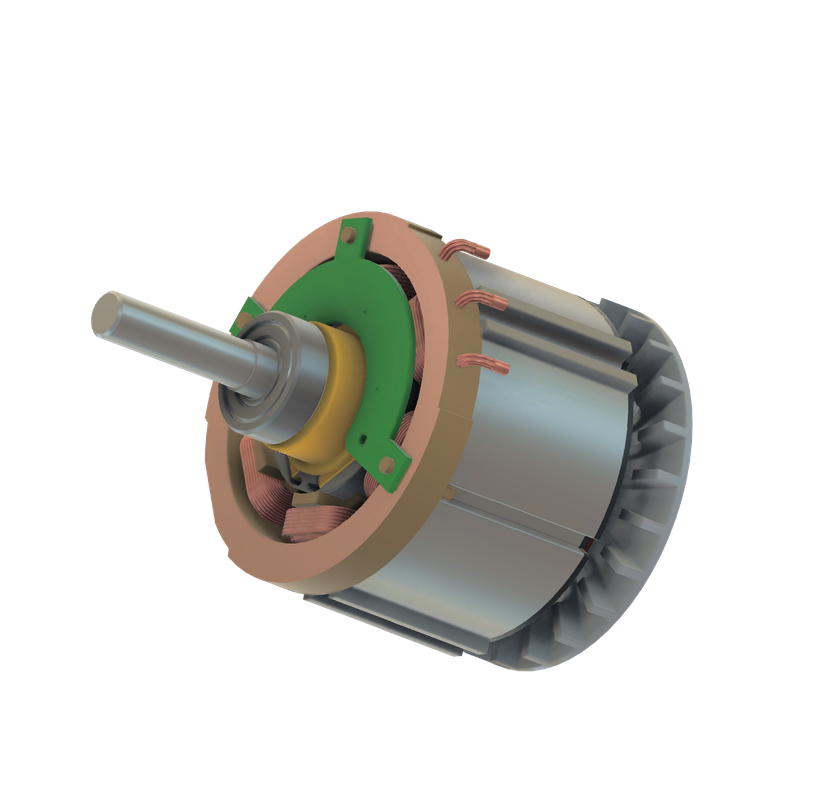
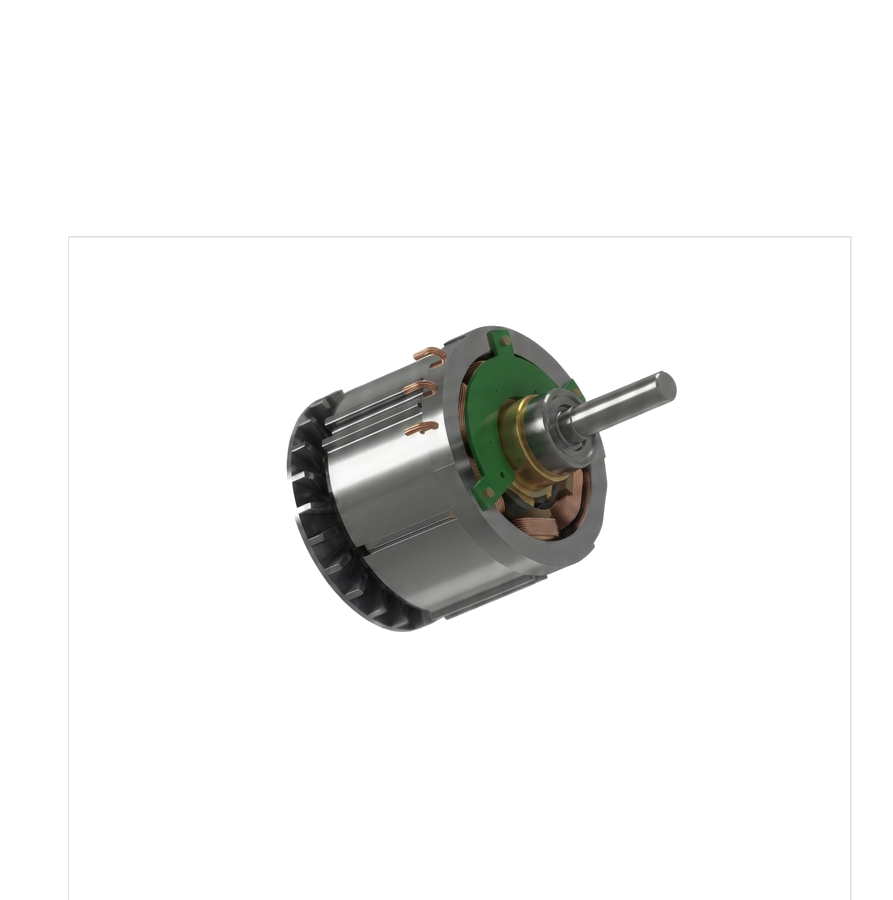
products: desktop render-audit fixes (god t117-audit) — 11 defects
- RF22/86 + RF55 variant-panel thumbs and RF55 View-In-Motion thumbs now use the
  distinct Final-1-2 housing render (own placed-node exports), not standard 49bc91be
- FamilyCard renders fill the plate per family (card.scale) matching Figma's
  plate-overflowing placement; card renders re-exported tight and cut out transparent
  so the overflow shows only the motor (fixes RF66 grey box, AF58 too-small)
- RF55/RF66/PT-500 hero size+position set to each artboard placement (heroClass);
  PT-500 hero re-exported as-displayed (baked 45deg) so it clears the View-In-Motion
  column; PT-500 technical sketch re-exported (2.06 aspect, no longer half-height)
- Define --text-22 (was undefined -> 14px fallback): app-tile + View-In-Motion
  labels now 22px per Figma
- Datasheet note kept to one line on desktop (whitespace-nowrap)

Changed region(s): [[0.0915, 0.2494, 0.8537, 0.8416]]

diff --git a/src/data/products/details.js b/src/data/products/details.js
@@ -123,7 +123,7 @@ export const detailBySlug = {
   rf22: mkDetail('rf22', 'Product/ RF Series/ RF 22', [
     mkVariant('RF 22/42', { hero: RF22 + 'hero.png', thumb: STD_THUMB, note: SAME_DIE, voltage: '48 V / 72 V', power: '2.2 kW', torque: '9.5 Nm', peakSpeed: '5000 RPM', efficiency: '>94%', mass: '6.5 Kg' }),
     mkVariant('RF 22/60', { hero: RF22 + 'hero.png', thumb: STD_THUMB, note: SAME_DIE, voltage: '48 V / 72 V', power: '2.2 kW', torque: '9.5 Nm', peakSpeed: '5000 RPM', efficiency: '>92%', mass: '6.5 Kg' }),
-    mkVariant('RF 22/86', { hero: RF22 + 'hero-86.png', thumb: STD_THUMB, note: DISTINCT_HOUSING, voltage: '48 V / 72 V', power: '2.2 kW', torque: '9.5 Nm', peakSpeed: '5000 RPM', efficiency: '>94%', mass: '6.5 Kg' }),
+    mkVariant('RF 22/86', { hero: RF22 + 'hero-86.png', thumb: RF22 + 'thumb-86.png', note: DISTINCT_HOUSING, voltage: '48 V / 72 V', power: '2.2 kW', torque: '9.5 Nm', peakSpeed: '5000 RPM', efficiency: '>94%', mass: '6.5 Kg' }),
   ], { vim: STD_VIM, gallery: [RF22 + 'hero.png', RF22 + 'hero.png'], sketch: [RF22 + 'sketch-1.png', RF22 + 'sketch-2.png'] }),
   // RF 33 (Figma board 14378-3788): /60, /86, /90. Figma gives each variant its OWN render: /60 the
   // standard finned motor, /86 the finned-housing render (same "Final 1 2" art as RF 22/86), /90 the
@@ -137,15 +137,15 @@ export const detailBySlug = {
   // panel (one row) and bottom-left gallery, unlike AF 58 / PT-500. showPanel forces that RF-series layout.
   // Hero reuses clean RF15 render; own sketch.
   rf55: mkDetail('rf55', 'Product/ RF Series/ RF 55', [
-    mkVariant('RF 55/86', { hero: RF55 + 'hero.png', thumb: STD_THUMB, note: DISTINCT_HOUSING, applications: APPS6, voltage: '48 V / 72 V', power: '5.5 kW', torque: '10.5 Nm', peakSpeed: '5000 RPM', efficiency: '>94%', mass: '10.5 Kg' }),
-  ], { showPanel: true, vim: STD_VIM, gallery: [RF55 + 'hero.png', RF55 + 'hero.png'], sketch: [RF55 + 'sketch.png'] }),
+    mkVariant('RF 55/86', { hero: RF55 + 'hero.png', thumb: RF55 + 'thumb.png', note: DISTINCT_HOUSING, applications: APPS6, voltage: '48 V / 72 V', power: '5.5 kW', torque: '10.5 Nm', peakSpeed: '5000 RPM', efficiency: '>94%', mass: '10.5 Kg' }),
+  ], { showPanel: true, vim: [RF55 + 'vim-1.png', RF55 + 'vim-2.png'], gallery: [RF55 + 'hero.png', RF55 + 'hero.png'], sketch: [RF55 + 'sketch.png'], heroClass: 'xl:top-98 xl:left-260 xl:h-770 xl:w-778' }),
   // RF 66 (Figma board 14393-7232): /70 and /90 — distinct real specs. RF 66 has its OWN render (the
   // squat finned cylinder, Figma "014455d6" node 14393:6358, exported transparent) shared by both
   // variants. Apps are the six-item RF 55/66 list. /90 uses its own sketch node (14393:6490).
   rf66: mkDetail('rf66', 'Product/ RF Series/ RF 66', [
     mkVariant('RF 66/70', { hero: RF66 + 'hero.png', thumb: RF66 + 'thumb.png', note: SAME_DIE, applications: APPS6, voltage: '48 V / 72 V', power: '12.5 kW', torque: '14 Nm', peakSpeed: '6500 RPM', efficiency: '>92%', mass: '13.6 Kg' }),
     mkVariant('RF 66/90', { hero: RF66 + 'hero.png', thumb: RF66 + 'thumb.png', sketch: [RF66 + 'sketch-90.png'], note: SAME_DIE, applications: APPS6, voltage: '48 V / 72 V', power: '14 kW', torque: '16 Nm', peakSpeed: '6500 RPM', efficiency: '>93%', mass: '14.5 Kg' }),
-  ], { vim: [RF66 + 'vim-1.png', RF66 + 'vim-2.png'], gallery: [RF66 + 'hero.png', RF66 + 'hero.png'], sketch: [RF66 + 'sketch.png'] }),
+  ], { vim: [RF66 + 'vim-1.png', RF66 + 'vim-2.png'], gallery: [RF66 + 'hero.png', RF66 + 'hero.png'], sketch: [RF66 + 'sketch.png'], heroClass: 'xl:top-205 xl:left-302 xl:h-579 xl:w-564' }),
   // Antarix AF 58 axial-flux motor (Figma node 14394-2056). Hero Torque box shows PEAK (60 Nm); the
   // technical table shows Rated Torque (25 Nm). Single-variant, so no Choose-Variant panel.
   af58: mkDetail('af58', 'Product/ AF Series/ AF 58', [
@@ -176,7 +176,7 @@ export const detailBySlug = {
         { label: 'Other Industrial Tools', image: PTA('other-tools.png') },
       ],
     }),
-  ], { vim: [PT + 'vim-1.png', PT + 'vim-2.png'], gallery: [PT + 'hero.png', PT + 'hero.png'], sketch: [PT + 'sketch.png'], heroClass: 'xl:top-110 xl:left-690 xl:h-795 xl:w-795' }),
+  ], { vim: [PT + 'vim-1.png', PT + 'vim-2.png'], gallery: [PT + 'hero.png', PT + 'hero.png'], sketch: [PT + 'sketch.png'], heroClass: 'xl:top-149 xl:left-806 xl:h-684 xl:w-684' }),
 }
 
 export const productDetail = (slug) => detailBySlug[slug]

diff --git a/src/data/products/index.js b/src/data/products/index.js
@@ -35,13 +35,13 @@ export const seriesTabs = ['RF', 'AF', 'PT']
 
 // Grid order on the /products listing, top to bottom, left to right.
 export const productFamilies = [
-  { slug: 'rf15', name: 'Antarix RF 15', series: 'RF', brand: 'Antarix', tagline: 'Compact | Efficient | Versatile', card: { image: L('card-standard.png') }, industries: ['cleaning', 'agriculture', '2-wheeler'], spec: { voltage: 72, power: 1.5, torque: 6.5 } },
-  { slug: 'rf22', name: 'Antarix RF 22', series: 'RF', brand: 'Antarix', tagline: 'Compact | Efficient | Versatile', card: { image: L('card-standard.png') }, industries: ['2-wheeler', 'agriculture', '3-wheeler'], spec: { voltage: 72, power: 2.2, torque: 9.5 } },
-  { slug: 'rf33', name: 'Antarix RF 33', series: 'RF', brand: 'Antarix', tagline: 'Compact | Efficient | Versatile', card: { image: L('card-529.png') }, industries: ['cleaning', 'agriculture', '2-wheeler'], spec: { voltage: 72, power: 3.3, torque: 10.5 } },
-  { slug: 'rf55', name: 'Antarix RF 55', series: 'RF', brand: 'Antarix', tagline: 'Compact | Efficient | Versatile', card: { image: L('card-529.png') }, industries: ['2-wheeler', 'agriculture', '3-wheeler'], spec: { voltage: 72, power: 5.5, torque: 10.5 } },
-  { slug: 'rf66', name: 'Antarix RF 66', series: 'RF', brand: 'Antarix', tagline: 'Compact | Efficient | Versatile', card: { image: L('card-rf66.png') }, industries: ['2-wheeler', 'agriculture', '3-wheeler'], spec: { voltage: 72, power: 14, torque: 16 } },
-  { slug: 'af58', name: 'Antarix AF 58', cardName: 'Antarix AF58', series: 'AF', brand: 'Antarix', tagline: 'Compact | Efficient | Versatile', card: { image: L('card-af58.png') }, industries: ['2-wheeler', '3-wheeler'], spec: { voltage: 72, power: 5.8, torque: 60 } },
-  { slug: 'pt500', name: 'PT - 500', cardName: 'PT 500', series: 'PT', brand: 'PT', tagline: 'Compact | Efficient | Versatile', card: { image: L('card-pt500.png') }, industries: ['industrial-tools'], spec: { voltage: 18, power: 0.05, torque: 0.5 } },
+  { slug: 'rf15', name: 'Antarix RF 15', series: 'RF', brand: 'Antarix', tagline: 'Compact | Efficient | Versatile', card: { image: L('card-standard.png'), scale: 76 }, industries: ['cleaning', 'agriculture', '2-wheeler'], spec: { voltage: 72, power: 1.5, torque: 6.5 } },
+  { slug: 'rf22', name: 'Antarix RF 22', series: 'RF', brand: 'Antarix', tagline: 'Compact | Efficient | Versatile', card: { image: L('card-standard.png'), scale: 76 }, industries: ['2-wheeler', 'agriculture', '3-wheeler'], spec: { voltage: 72, power: 2.2, torque: 9.5 } },
+  { slug: 'rf33', name: 'Antarix RF 33', series: 'RF', brand: 'Antarix', tagline: 'Compact | Efficient | Versatile', card: { image: L('card-529.png'), scale: 78 }, industries: ['cleaning', 'agriculture', '2-wheeler'], spec: { voltage: 72, power: 3.3, torque: 10.5 } },
+  { slug: 'rf55', name: 'Antarix RF 55', series: 'RF', brand: 'Antarix', tagline: 'Compact | Efficient | Versatile', card: { image: L('card-529.png'), scale: 78 }, industries: ['2-wheeler', 'agriculture', '3-wheeler'], spec: { voltage: 72, power: 5.5, torque: 10.5 } },
+  { slug: 'rf66', name: 'Antarix RF 66', series: 'RF', brand: 'Antarix', tagline: 'Compact | Efficient | Versatile', card: { image: L('card-rf66.png'), scale: 109 }, industries: ['2-wheeler', 'agriculture', '3-wheeler'], spec: { voltage: 72, power: 14, torque: 16 } },
+  { slug: 'af58', name: 'Antarix AF 58', cardName: 'Antarix AF58', series: 'AF', brand: 'Antarix', tagline: 'Compact | Efficient | Versatile', card: { image: L('card-af58.png'), scale: 91 }, industries: ['2-wheeler', '3-wheeler'], spec: { voltage: 72, power: 5.8, torque: 60 } },
+  { slug: 'pt500', name: 'PT - 500', cardName: 'PT 500', series: 'PT', brand: 'PT', tagline: 'Compact | Efficient | Versatile', card: { image: L('card-pt500.png'), scale: 131 }, industries: ['industrial-tools'], spec: { voltage: 18, power: 0.05, torque: 0.5 } },
 ]
 
 export const productBySlug = Object.fromEntries(productFamilies.map((f) => [f.slug, f]))

diff --git a/src/sections/products/FamilyCard.jsx b/src/sections/products/FamilyCard.jsx
@@ -27,13 +27,15 @@ function IndustryChips({ keys }) {
 export default function FamilyCard({ family, className = 'w-full' }) {
   return (
     <a href={productPath(family.slug)} className={`group flex flex-col overflow-hidden border-[0.85px] border-black/10 bg-black/[0.02] ${className}`}>
-      {/* Render plate */}
+      {/* Render plate. The Figma card render is a large square centred on the plate that overflows it
+          (clipped by the card); its width per family is card.scale (% of the plate width). */}
       <span className="relative mx-[6.5%] mt-[6.5%] block aspect-[360/197] bg-white">
         <img
           src={family.card.image}
           alt={family.name}
           loading="lazy"
-          className="absolute inset-0 size-full scale-[1.12] object-contain p-6 transition-transform duration-500 group-hover:scale-[1.18]"
+          style={{ width: `${family.card.scale ?? 90}%` }}
+          className="absolute left-1/2 top-1/2 max-w-none -translate-x-1/2 -translate-y-1/2 object-contain transition-transform duration-500 group-hover:scale-105"
         />
       </span>
       {/* Content */}

diff --git a/src/sections/products/detail/TechnicalSpecs.jsx b/src/sections/products/detail/TechnicalSpecs.jsx
@@ -36,7 +36,7 @@ export default function TechnicalSpecs({ variant, sketch }) {
 
         {/* Datasheet */}
         <div className="mx-auto flex max-w-676 flex-col items-center gap-24 text-center">
-          <p className="text-20 xl:text-32">{variant.datasheetNote}</p>
+          <p className="text-20 xl:whitespace-nowrap xl:text-32">{variant.datasheetNote}</p>
           <Button as="a" href={variant.datasheet} download variant="primary" size="sm" className="xl:hidden">
             Download data-sheet
           </Button>

diff --git a/src/index.css b/src/index.css
@@ -46,6 +46,7 @@
   --text-19-5: 1.187rem;
   --text-20: 1.25rem;
   --text-21: 1.31525rem;
+  --text-22: 1.396rem;
   --text-23: 1.45162rem;
   --text-24: 1.5rem;
   --text-26: 1.625rem;
